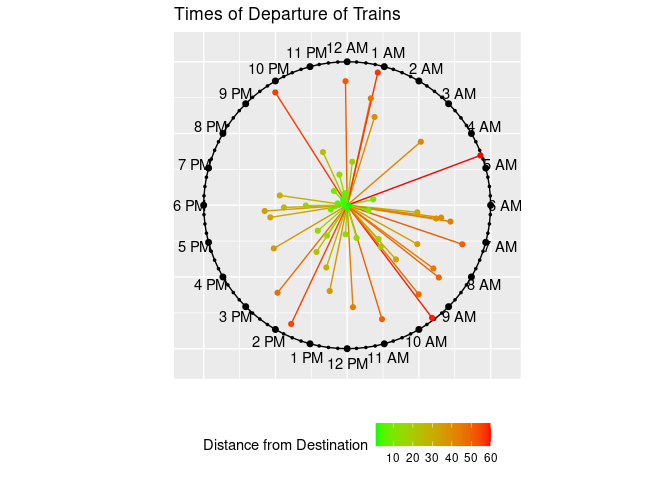
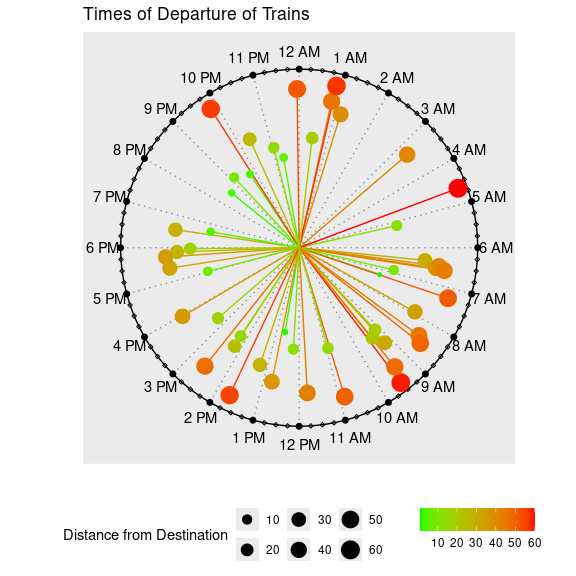
Make six by 6 plots, beautify legend

Changed region(s): [[0.125, 0.0, 0.9062, 0.7812], [0.0938, 0.875, 0.9375, 0.9688]]

diff --git a/README.md b/README.md
@@ -29,22 +29,26 @@ see all the available functions.
 ## Applications
 
 Below we mention some relevant applications. [Click
-here](https://github.com/mahmudstat/clockplot/blob/main/README.Rmd) to
+here](https://mahmudstat.github.io/clockplot/articles/clockplot.html) to
 see the reproducible codes.
 
 We have a small data of times of messages received throughout a
 particular day, along with sender of the messages and their types. Let
 us the pattern of messages by senders.
 
-<img src="man/figures/README-exqlt-1.png" alt="SMS times" width="100%" />
+    #> Warning in clock_chart_qlt(smsclock, time = time, crit = sender): No. of
+    #> categories is more than 5 and may not be distinguished well. Try clock_chart()
+    #> function instead?
+
+<img src="man/figures/README-exqlt-1.png" alt="SMS times" width="100%" style="display: block; margin: auto;" />
 
 ### Modifying Clock Hands
 
-<img src="man/figures/README-example-1.png" alt="Clock chart of random event times based on a random sample." width="100%" />
+<img src="man/figures/README-example-1.png" alt="Clock chart of random event times based on a random sample." width="100%" style="display: block; margin: auto;" />
 
 ### Week Chart
 
-<img src="man/figures/README-week-chart-1.png" alt="Week chart of Temperature" width="100%" />
+<img src="man/figures/README-week-chart-1.png" alt="Week chart of Temperature" width="100%" style="display: block; margin: auto;" />
 
 ## Aditional Components
 
